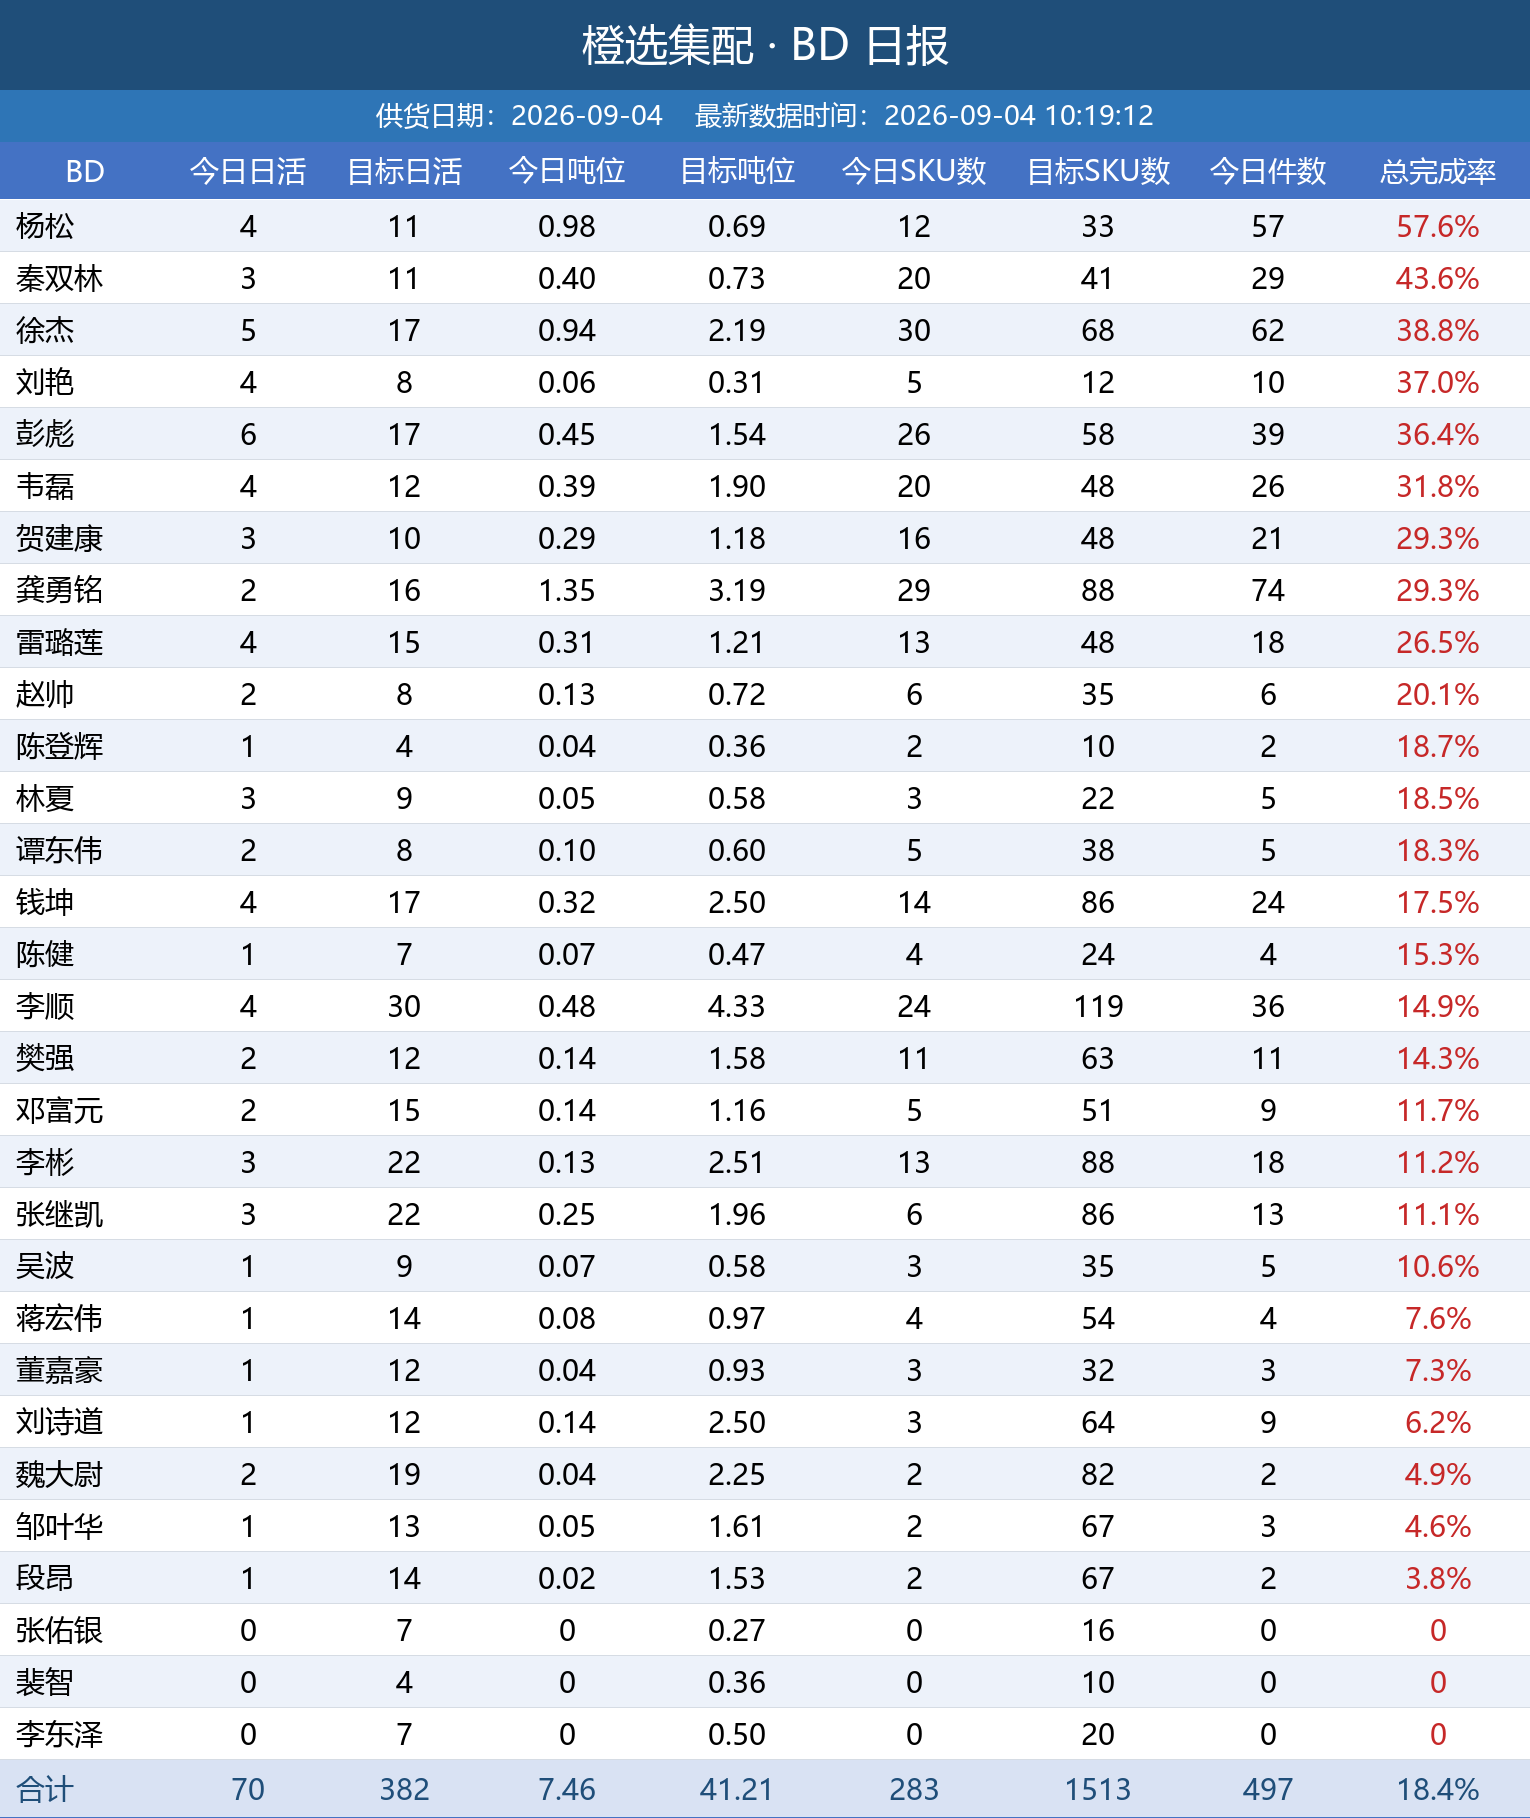
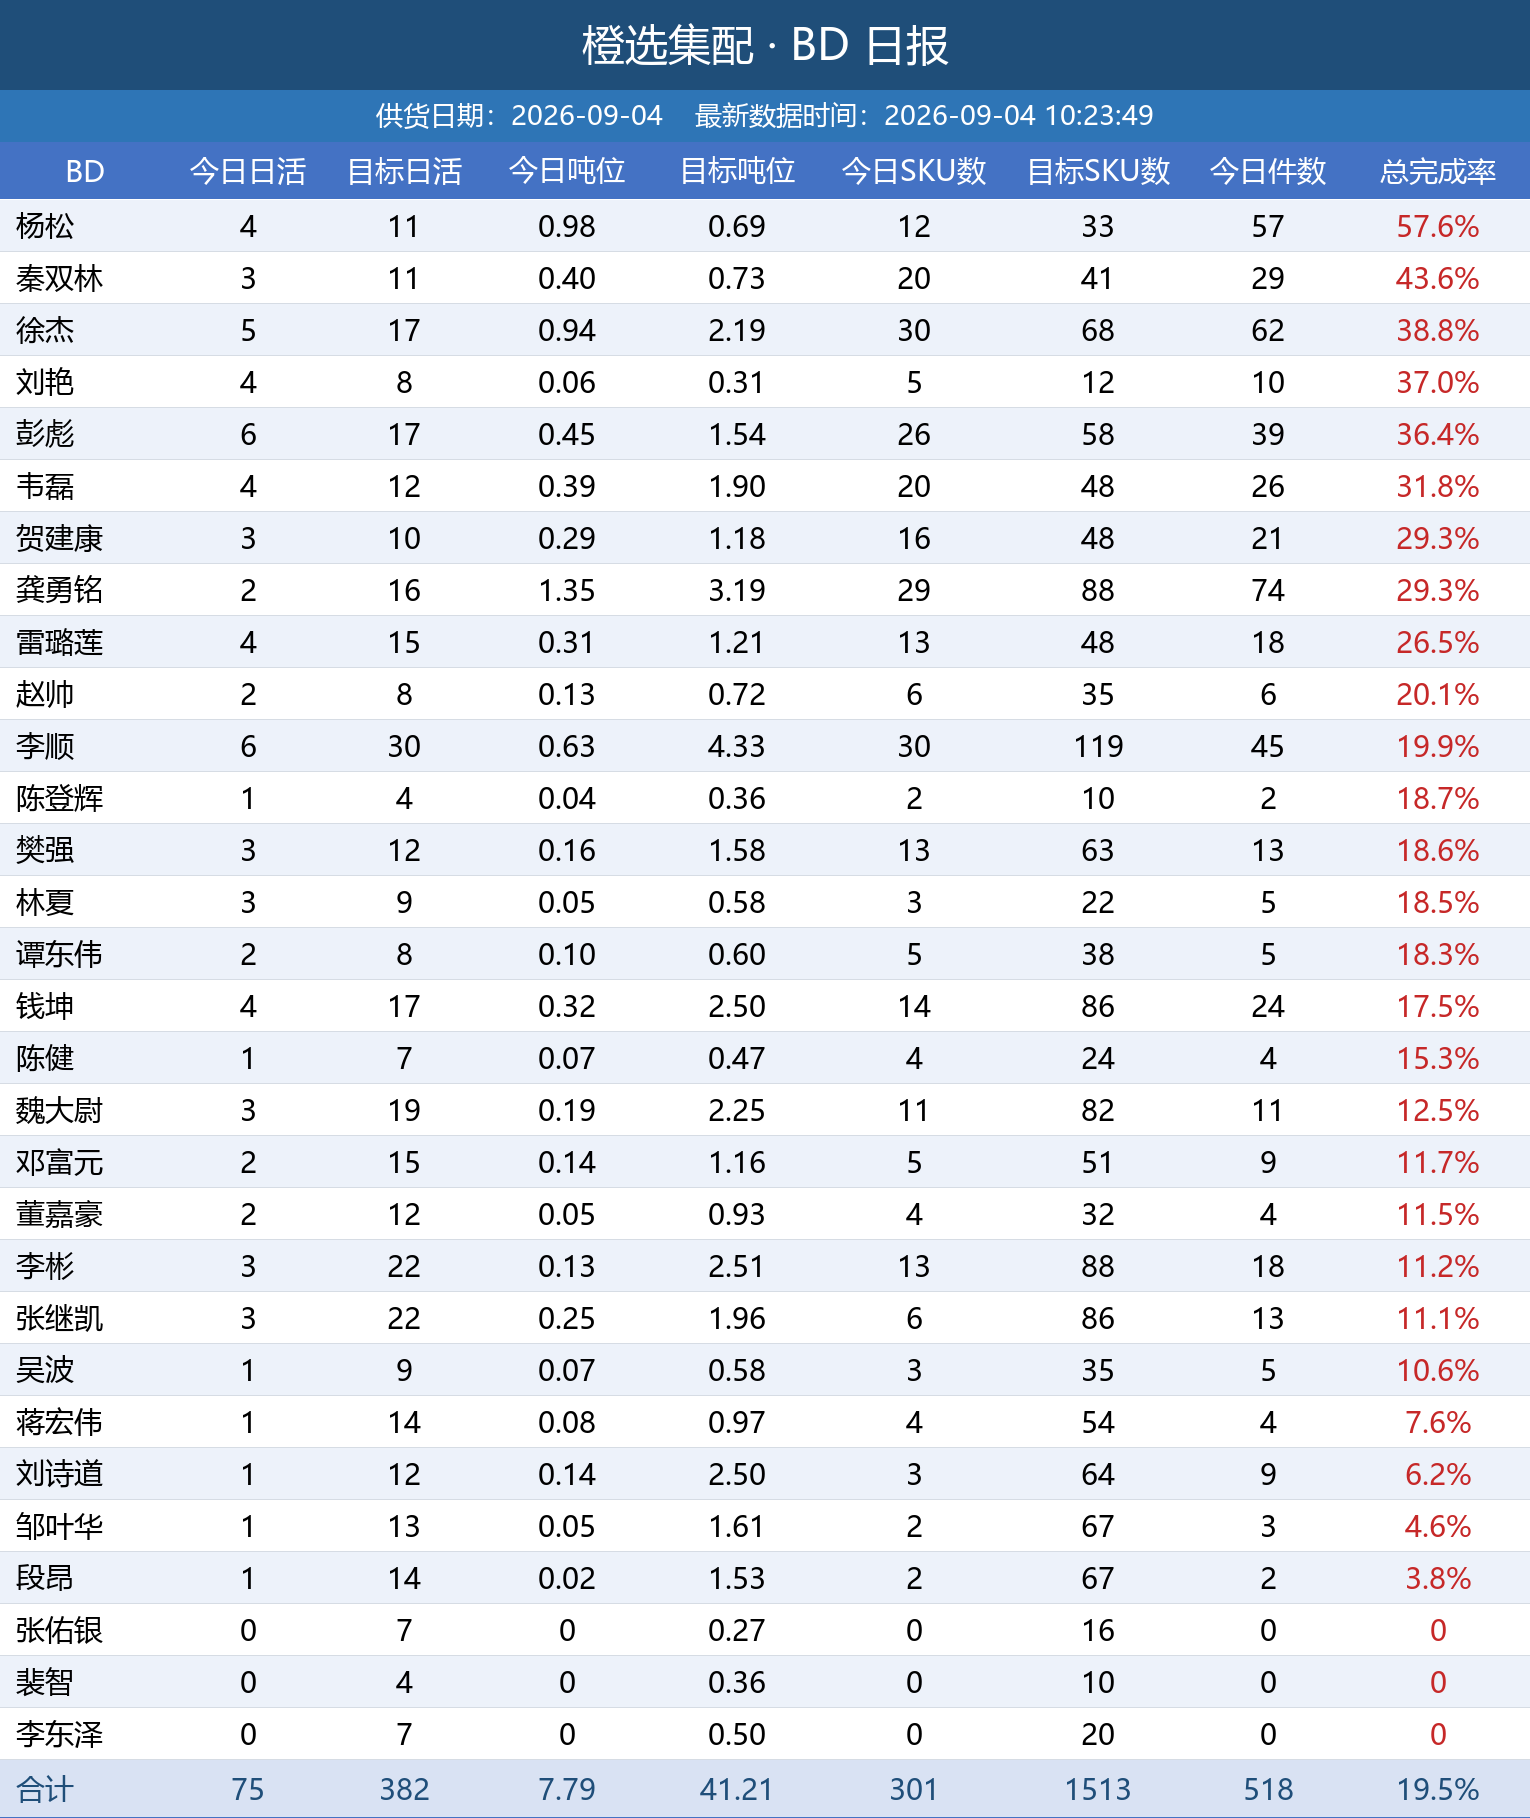
自动更新日报图片

diff --git a/index.html b/index.html
@@ -11,7 +11,7 @@ img { max-width: 100%; border: 1px solid #e5e5e5; margin-bottom: 24px; display: 
 </style>
 </head>
 <body>
-<h1>橙选集配日报图片（20260904_101916）</h1>
+<h1>橙选集配日报图片（20260904_102354）</h1>
 <img src="bd_latest.png" alt="BD 日报">
 <img src="wh_latest.png" alt="城市仓日报">
 <img src="zs_latest.png" alt="招商日报">
